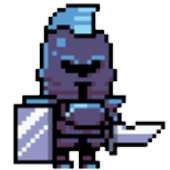
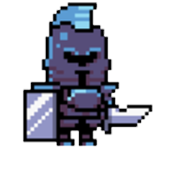
ajout design bump,piege,teleport

diff --git a/src/model/SpriteLoader.java b/src/model/SpriteLoader.java
@@ -13,6 +13,10 @@ public class SpriteLoader {
 	private volatile static Image wall =null;
 	private volatile static ArrayList<Image> piece =null;
 	private volatile static Image knight =null;
+	private volatile static Image piegeOurs =null;
+	private volatile static Image bump=null;
+	private volatile static Image teleport=null;
+	private volatile static Image teleport2=null;
 	
 	public static Image getSol() {
 		if(sol==null) {
@@ -63,4 +67,51 @@ public class SpriteLoader {
 		}
 		return knight;
 	}
+	
+	public static Image getPiegeOurs() {
+		if(piegeOurs==null) {
+			try {
+				piegeOurs= ImageIO.read(new File("piegeOurs.png"));
+			} catch (IOException e) {
+				// TODO Auto-generated catch block
+				e.printStackTrace();
+			}
+		}
+		return piegeOurs;
+	}
+	public static Image getBump() {
+		if(bump==null) {
+			try {
+				bump= ImageIO.read(new File("bump.png"));
+			} catch (IOException e) {
+				// TODO Auto-generated catch block
+				e.printStackTrace();
+			}
+		}
+		return bump;
+	}
+	public static Image getTeleport() {
+		if(teleport==null) {
+			try {
+				teleport= ImageIO.read(new File("teleport.png"));
+			} catch (IOException e) {
+				// TODO Auto-generated catch block
+				e.printStackTrace();
+			}
+		}
+		return teleport;
+	}
+	
+	public static Image getTeleport2() {
+		if(teleport2==null) {
+			try {
+				teleport2= ImageIO.read(new File("teleport2.png"));
+			} catch (IOException e) {
+				// TODO Auto-generated catch block
+				e.printStackTrace();
+			}
+		}
+		return teleport2;
+	}
+	
 }

diff --git a/src/model/PiegeAOurs.java b/src/model/PiegeAOurs.java
@@ -22,17 +22,11 @@ public class PiegeAOurs extends Special {
 
 	@Override
 	public void dessiner(Graphics2D g) {
-		if (triggered) {
-			g.setColor(Color.GRAY);
-			g.fillRect(x * PacmanPainter.WIDTH, y * PacmanPainter.HEIGHT, PacmanPainter.WIDTH, PacmanPainter.HEIGHT);
-		} else {
-			g.setColor(Color.RED);
-			g.fillRect(x * PacmanPainter.WIDTH, y * PacmanPainter.HEIGHT, PacmanPainter.WIDTH, PacmanPainter.HEIGHT);
-			g.setColor(Color.GRAY);
-			g.fillRect(	x * PacmanPainter.WIDTH + (int)(PacmanPainter.WIDTH*0.1),
-						y * PacmanPainter.HEIGHT + (int)(PacmanPainter.HEIGHT*0.1),
-						(int)(PacmanPainter.WIDTH*0.8),
-						(int)(PacmanPainter.HEIGHT*0.8));
+		g.drawImage(SpriteLoader.getSol(),x* PacmanPainter.WIDTH, y* PacmanPainter.HEIGHT, PacmanPainter.WIDTH, PacmanPainter.HEIGHT,null);
+			
+		if (!triggered) {
+			g.drawImage(SpriteLoader.getPiegeOurs(),x* PacmanPainter.WIDTH, y* PacmanPainter.HEIGHT, PacmanPainter.WIDTH, PacmanPainter.HEIGHT,null);
+
 		}
 	}
 

diff --git a/src/model/Passage.java b/src/model/Passage.java
@@ -31,12 +31,11 @@ public class Passage extends Special {
 
 	@Override
 	public void dessiner(Graphics2D g) {
-		if (triggered) {
-			g.setColor(Color.WHITE);
-			g.fillRect(x * PacmanPainter.WIDTH, y * PacmanPainter.HEIGHT, PacmanPainter.WIDTH, PacmanPainter.HEIGHT);
-		} else {
-			g.setColor(Color.GREEN);
-			g.fillRect(x * PacmanPainter.WIDTH, y * PacmanPainter.HEIGHT, PacmanPainter.WIDTH, PacmanPainter.HEIGHT);
+		g.drawImage(SpriteLoader.getSol(),x* PacmanPainter.WIDTH, y* PacmanPainter.HEIGHT, PacmanPainter.WIDTH, PacmanPainter.HEIGHT,null);
+		if(!triggered) {
+			g.drawImage(SpriteLoader.getTeleport2(),x* PacmanPainter.WIDTH, y* PacmanPainter.HEIGHT, PacmanPainter.WIDTH, PacmanPainter.HEIGHT,null);
+		}else {	
+			g.drawImage(SpriteLoader.getTeleport(),x* PacmanPainter.WIDTH, y* PacmanPainter.HEIGHT, PacmanPainter.WIDTH, PacmanPainter.HEIGHT,null);
 		}
 	}
 

diff --git a/src/model/Magique.java b/src/model/Magique.java
@@ -14,6 +14,7 @@ public class Magique extends Special {
 
 	@Override
 	public void trigger(Entite entite) {
+		triggered=true;
 		switch (orientation){
 		case 0:
 			entite.haut();
@@ -36,8 +37,10 @@ public class Magique extends Special {
 
 	@Override
 	public void dessiner(Graphics2D g) {
-		g.setColor(Color.CYAN);
-		g.fillRect(x * PacmanPainter.WIDTH, y * PacmanPainter.HEIGHT, PacmanPainter.WIDTH, PacmanPainter.HEIGHT);
+		g.drawImage(SpriteLoader.getSol(),x* PacmanPainter.WIDTH, y* PacmanPainter.HEIGHT, PacmanPainter.WIDTH, PacmanPainter.HEIGHT,null);
+		if(triggered) {
+			g.drawImage(SpriteLoader.getBump(),x* PacmanPainter.WIDTH, y* PacmanPainter.HEIGHT, PacmanPainter.WIDTH, PacmanPainter.HEIGHT,null);
+		}
 	}
 
 }

diff --git a/src/model/Joueur.java b/src/model/Joueur.java
@@ -19,7 +19,7 @@ public class Joueur extends Entite{
 
 	@Override
 	protected void dessiner(Graphics2D g) {
-		g.drawImage(SpriteLoader.getknight(),x* PacmanPainter.WIDTH, y* PacmanPainter.HEIGHT, PacmanPainter.WIDTH, PacmanPainter.HEIGHT,null);
+		g.drawImage(SpriteLoader.getknight(),x* PacmanPainter.WIDTH, y*PacmanPainter.HEIGHT-5, PacmanPainter.WIDTH, (int)(PacmanPainter.HEIGHT),null);
 	}
 
 

diff --git a/src/start/Main.java b/src/start/Main.java
@@ -18,7 +18,7 @@ public class Main {
 		int width = (int)dimension.getWidth();
 		
 		// creation du jeu particulier et de son afficheur
-		PacmanGame game = new PacmanGame("helpFilePacman.txt");
+		PacmanGame game = new PacmanGame("helpFilePacman.txt",true);
 		PacmanPainter painter = new PacmanPainter(game);
 
 		// classe qui lance le moteur de jeu generique
